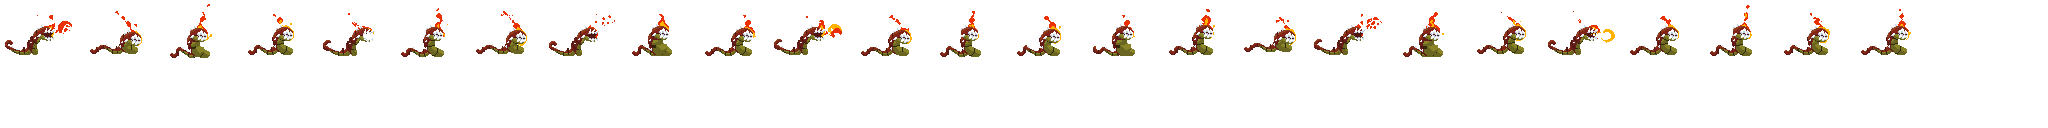
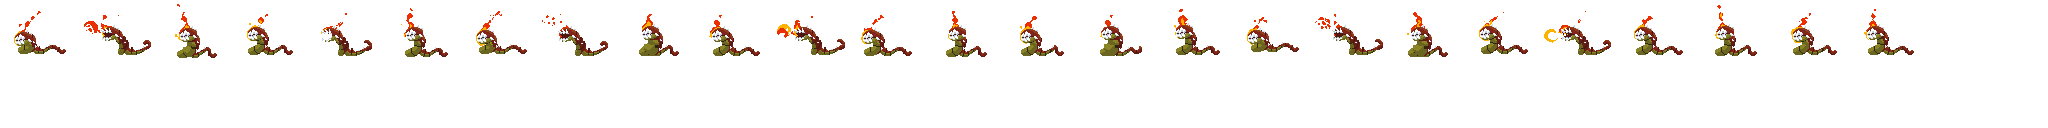
Added the fireworm walk and attack animation

diff --git a/source/core/src/main/com/csse3200/game/areas/ForestGameArea.java b/source/core/src/main/com/csse3200/game/areas/ForestGameArea.java
@@ -104,7 +104,8 @@ public class ForestGameArea extends GameArea {
           "images/projectiles/stun_effect.png",
           "images/projectiles/firework_anim.png",
           "images/projectiles/pierce_anim.png",
-          "images/projectiles/snow_ball.png"
+          "images/projectiles/snow_ball.png",
+          "images/mobs/fire_worm.png"
   };
   private static final String[] forestTextureAtlases = {
           "images/economy/econ-tower.atlas",
@@ -136,7 +137,8 @@ public class ForestGameArea extends GameArea {
           "images/projectiles/burn_effect.atlas",
           "images/projectiles/firework_anim.atlas",
           "images/projectiles/mobProjectile.atlas",
-          "images/projectiles/stun_effect.atlas"
+          "images/projectiles/stun_effect.atlas",
+          "images/mobs/fire_worm.atlas"
   };
   private static final String[] forestSounds = {
           "sounds/Impact4.ogg",
@@ -238,7 +240,8 @@ public class ForestGameArea extends GameArea {
     spawnRicochetFireball(new Vector2(2, 4), PhysicsLayer.NPC, towardsMobs, new Vector2(2f, 2f));
     spawnSplitFireWorksFireBall(new Vector2(2, 5), PhysicsLayer.NPC, towardsMobs, new Vector2(2f, 2f), 12);
     spawnEffectProjectile(new Vector2(2, 6), PhysicsLayer.NPC, towardsMobs, new Vector2(2f, 2f), ProjectileEffects.SLOW, false);
-    spawnXenoGrunts();
+    // spawnXenoGrunts();
+    spawnFireWorm();
     spawnWeaponTower();
     //mobBoss1 = spawnMobBoss1();
     startWaveTimer();
@@ -467,6 +470,18 @@ public class ForestGameArea extends GameArea {
       GridPoint2 randomPos = new GridPoint2(19, pickedLanes[i]);
       System.out.println(randomPos);
       Entity xenoGrunt = NPCFactory.createXenoGrunt(player);
+      xenoGrunt.setScale(1.5f, 1.5f);
+      spawnEntityAt(xenoGrunt, randomPos, true, false);
+    }
+  }
+
+  private void spawnFireWorm() {
+    int[] pickedLanes = new Random().ints(1, 7)
+            .distinct().limit(5).toArray();
+    for (int i = 0; i < NUM_GRUNTS; i++) {
+      GridPoint2 randomPos = new GridPoint2(19, pickedLanes[i]);
+      System.out.println(randomPos);
+      Entity xenoGrunt = NPCFactory.createFireWorm(player);
       xenoGrunt.setScale(1.5f, 1.5f);
       spawnEntityAt(xenoGrunt, randomPos, true, false);
     }

diff --git a/source/core/src/main/com/csse3200/game/entities/factories/NPCFactory.java b/source/core/src/main/com/csse3200/game/entities/factories/NPCFactory.java
@@ -6,6 +6,7 @@ import com.badlogic.gdx.math.Vector2;
 import com.csse3200.game.ai.tasks.AITaskComponent;
 import com.csse3200.game.components.CombatStatsComponent;
 import com.csse3200.game.components.TouchAttackComponent;
+import com.csse3200.game.components.npc.FireWormAnimationController;
 import com.csse3200.game.components.npc.GhostAnimationController;
 import com.csse3200.game.components.npc.XenoAnimationController;
 import com.csse3200.game.components.tasks.MobAttackTask;
@@ -97,7 +98,7 @@ public class NPCFactory {
   }
 
   /**
-   * Creates a xeno grunt entity.
+   * Creates a fire worm entity.
    *
    * @param target entity to chase
    * @return entity
@@ -112,23 +113,21 @@ public class NPCFactory {
 
     AnimationRenderComponent animator =
             new AnimationRenderComponent(
-                    ServiceLocator.getResourceService().getAsset("images/mobs/xenoGrunt.atlas", TextureAtlas.class));
-    animator.addAnimation("xeno_run", 0.1f, Animation.PlayMode.LOOP);
-    animator.addAnimation("xeno_hurt", 0.1f, Animation.PlayMode.LOOP);
-    animator.addAnimation("xeno_shoot", 0.1f);
-    animator.addAnimation("xeno_melee_1", 0.1f);
-    animator.addAnimation("xeno_melee_2", 0.1f);
-    animator.addAnimation("xeno_die", 0.1f);
+                    ServiceLocator.getResourceService().getAsset("images/mobs/fire_worm.atlas", TextureAtlas.class));
+    animator.addAnimation("fire_worm_walk", 0.1f, Animation.PlayMode.LOOP);
+    animator.addAnimation("fire_worm_attack", 0.1f);
     fireWorm
             .addComponent(new CombatStatsComponent(config.fullHeath, config.baseAttack, drops, melee, projectiles))
             .addComponent(animator)
-            .addComponent(new XenoAnimationController());
+            .addComponent(new FireWormAnimationController());
 
     fireWorm.getComponent(HitboxComponent.class).setAsBoxAligned(new Vector2(.3f, .5f), PhysicsComponent.AlignX.RIGHT, PhysicsComponent.AlignY.BOTTOM);
     fireWorm.getComponent(AnimationRenderComponent.class).scaleEntity();
 
     return fireWorm;
   }
+
+
   /**
    * Creates a xeno grunt entity.
    *

diff --git a/source/core/src/main/com/csse3200/game/components/npc/FireWormAnimationController.java b/source/core/src/main/com/csse3200/game/components/npc/FireWormAnimationController.java
@@ -32,7 +32,7 @@ public class FireWormAnimationController extends Component {
     }
 
     void animateAttack() {
-        animator.startAnimation("xeno_shoot");
+        animator.startAnimation("fire_worm_attack");
     }
 }
 
